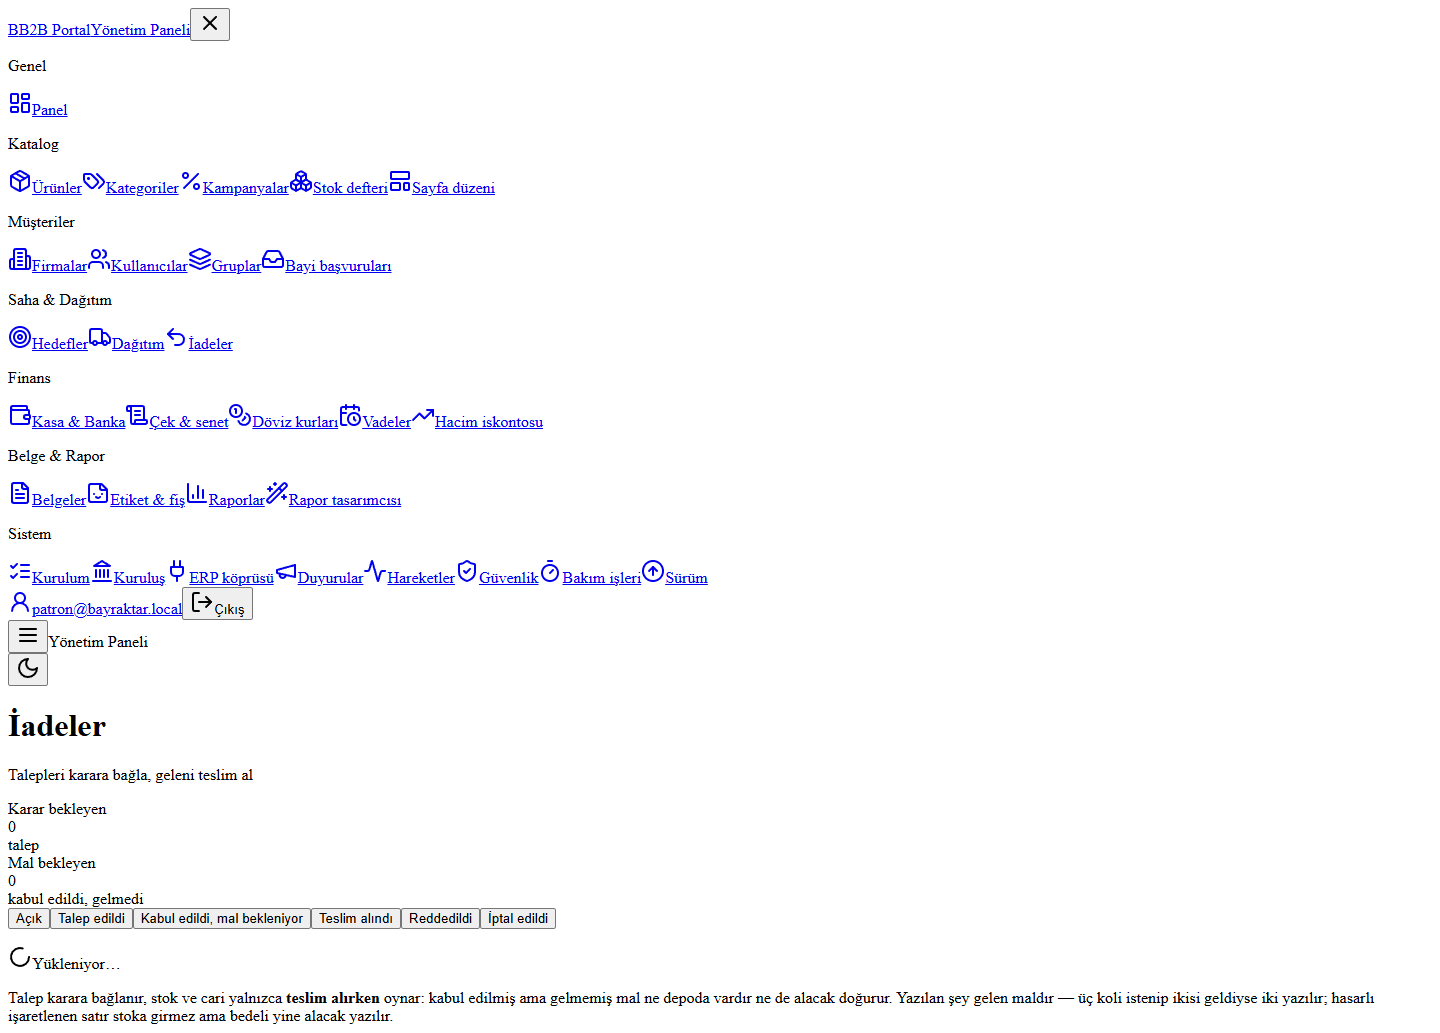
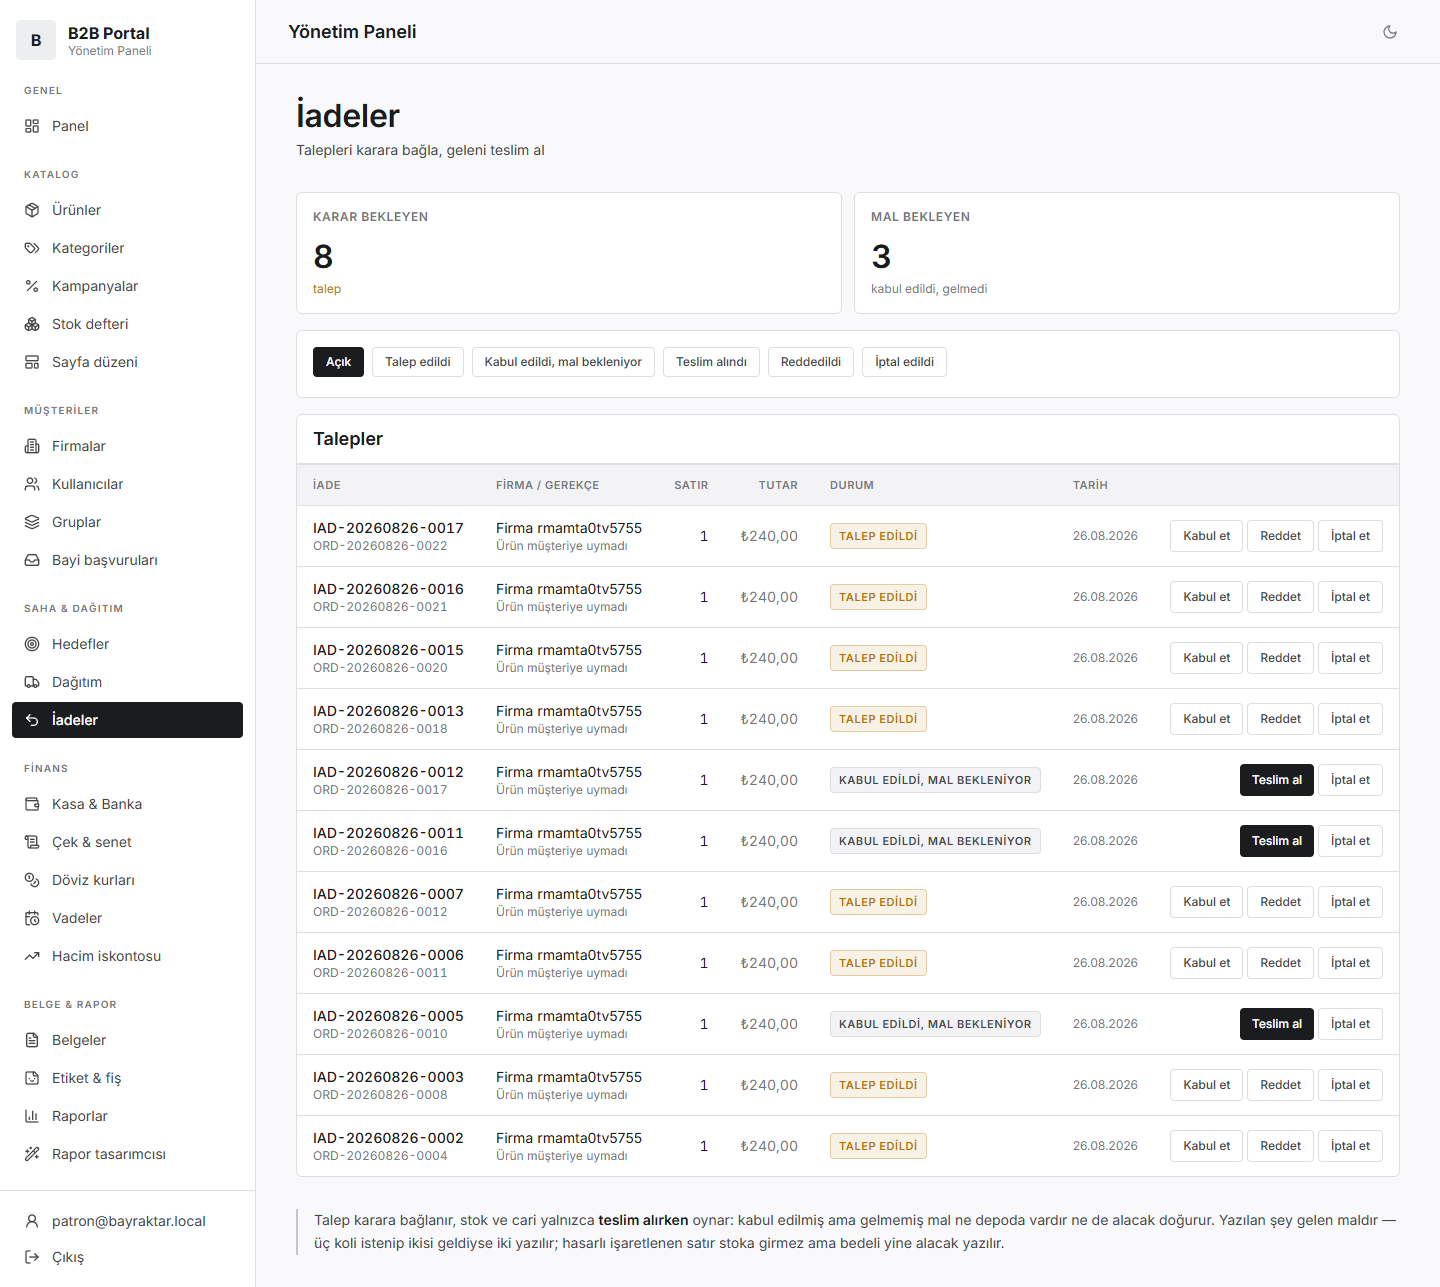
fix(design): refuse to save a screenshot that has no CSS
All six adım-4 screenshots were saved as raw HTML — blue underlined links,
unboxed inputs, Times New Roman. The cause was running `next build` while
the dev server was up: they share one `.next` directory, the build displaced
the chunks the server was serving, the server stayed alive, and the browser
took 404s for CSS and JS. The script wrote six broken files without a word,
because neither `networkidle2` nor `settle()` ever asked whether the page
had been styled.

`assertStyled` now runs before every capture. Two theme-independent signals:
no stylesheets at all, or a body still carrying the browser's default 8px
margin that the Tailwind reset zeroes. Raw HTML measures
{sheets: 0, margin: "8px"}; a healthy page measures {sheets: 1, margin: "0px"}.

Saving an empty screen stays allowed — an empty screen is still a screen.
Saving an unstyled one is not: telling us the screen looks right is the only
job these files have.

Screenshots retaken from a clean server.

diff --git a/docs/design/screens/README.md b/docs/design/screens/README.md
@@ -34,6 +34,17 @@ SHOT_BASE_URL=http://localhost:3100 pnpm shots -- --theme both
 Tarayıcı indirilmez: sistemde kurulu Chrome ya da Edge sürülür
 (`puppeteer-core`). Başka bir yerdeyse `CHROME_PATH` ile gösterin.
 
+> **Sunucu ayaktayken `next build` çalıştırmayın.** İkisi aynı `.next`
+> klasörünü paylaşıyor; derleme, geliştirme sunucusunun sunduğu CSS/JS
+> parçalarını yerinden ediyor ve sunucu ölmeden çalışmaya devam ediyor —
+> tarayıcı o parçaları 404 alıyor, sayfa **ham HTML** olarak açılıyor. Adım
+> 4'te altı ekranın altısı da böyle kaydedildi: mavi altı çizili bağlantılar,
+> kutusuz form, Times New Roman. Olduysa: sunucuyu durdurun,
+> `rm -rf apps/web/.next`, sunucuyu yeniden başlatın, çekimi tekrarlayın.
+>
+> Betik artık bunu kendisi yakalıyor (`assertStyled`, aşağıda) ama önce
+> derlemeyi ayrı sırada çalıştırmak daha ucuz.
+
 ## Kararlar
 
 - **Ölçek 1, genişlik 1440.** Görüntü, tasarımcının ekranda gördüğünün birebir
@@ -58,3 +69,10 @@ Tarayıcı indirilmez: sistemde kurulu Chrome ya da Edge sürülür
   ekranın iki çekimi birebir aynı olmayabilir — bu bir hata değil.
 - **Açık tema varsayılan.** `--theme dark` ya da `--theme both` ile koyu tema da
   alınır; koyu dosyalar `<slug>-dark.png` olur.
+- **Biçimsiz sayfa kaydedilmez** (`assertStyled`). Boş bir ekran kaydetmek
+  serbest — boş ekran da bir ekrandır — ama **stilsiz** bir ekran kaydetmek
+  betiğin tek işini boşa çıkarıyor. İki ölçüt, ikisi de temadan bağımsız:
+  sayfada hiç stil sayfası olmaması (`document.styleSheets.length === 0`) ve
+  `body`nin tarayıcı varsayılanı 8px kenar boşluğunu taşıması — Tailwind'in
+  sıfırlaması onu 0'a çekiyor. Ham HTML `{sheets: 0, margin: "8px"}` veriyor,
+  sağlam sayfa `{sheets: 1, margin: "0px"}`.

diff --git a/docs/design/REDESIGN.md b/docs/design/REDESIGN.md
@@ -353,8 +353,24 @@ yakalamadığı üç şey:
 Sayaçlar (eşleşen satır sayısı, `app` + `components`): `dark:` 220 → **191**,
 `neutral-` 417 → **366**, `brand-` 18 (değişmedi).
 
+**Dördüncü hata görüntülerin kendisindeydi.** İlk kaydedilen altı dosyanın
+altısı da ham HTML'di — mavi altı çizili bağlantılar, kutusuz form, Times New
+Roman. Sebep: doğrulamayı yaparken `next build`i geliştirme sunucusu ayaktayken
+çalıştırdım. İkisi aynı `.next` klasörünü paylaşıyor; derleme sunucunun sunduğu
+CSS/JS parçalarını yerinden etti, sunucu ölmedi, tarayıcı parçaları 404 aldı ve
+betik altı bozuk dosyayı hiç sesini çıkarmadan yazdı. `networkidle2` de
+`settle()` de "stil geldi mi" diye sormuyordu.
+
+`screenshots.mjs` artık her sayfada `assertStyled` çağırıyor: stil sayfası
+sayısı sıfırsa ya da `body` tarayıcı varsayılanı 8px kenar boşluğunu taşıyorsa
+(Tailwind sıfırlaması onu 0'a çekiyor) hata veriyor. Ham HTML
+`{sheets: 0, margin: "8px"}`, sağlam sayfa `{sheets: 1, margin: "0px"}` —
+ikisi de temadan bağımsız. **Derlemeyi sunucu ayakta çalıştırmayın**;
+olduysa sunucuyu durdurup `apps/web/.next`i silin.
+
 Doğrulama: `tsc --noEmit` temiz, `next lint` temiz, `vitest run` 233/233 geçti,
-`next build` başarılı, 6 ekran görüntüsü `adim-4/` altında.
+`next build` başarılı, 6 ekran görüntüsü `adim-4/` altında (temiz sunucudan
+yeniden çekildi).
 
 ### ▢ Adım 5 — Operasyon
 
